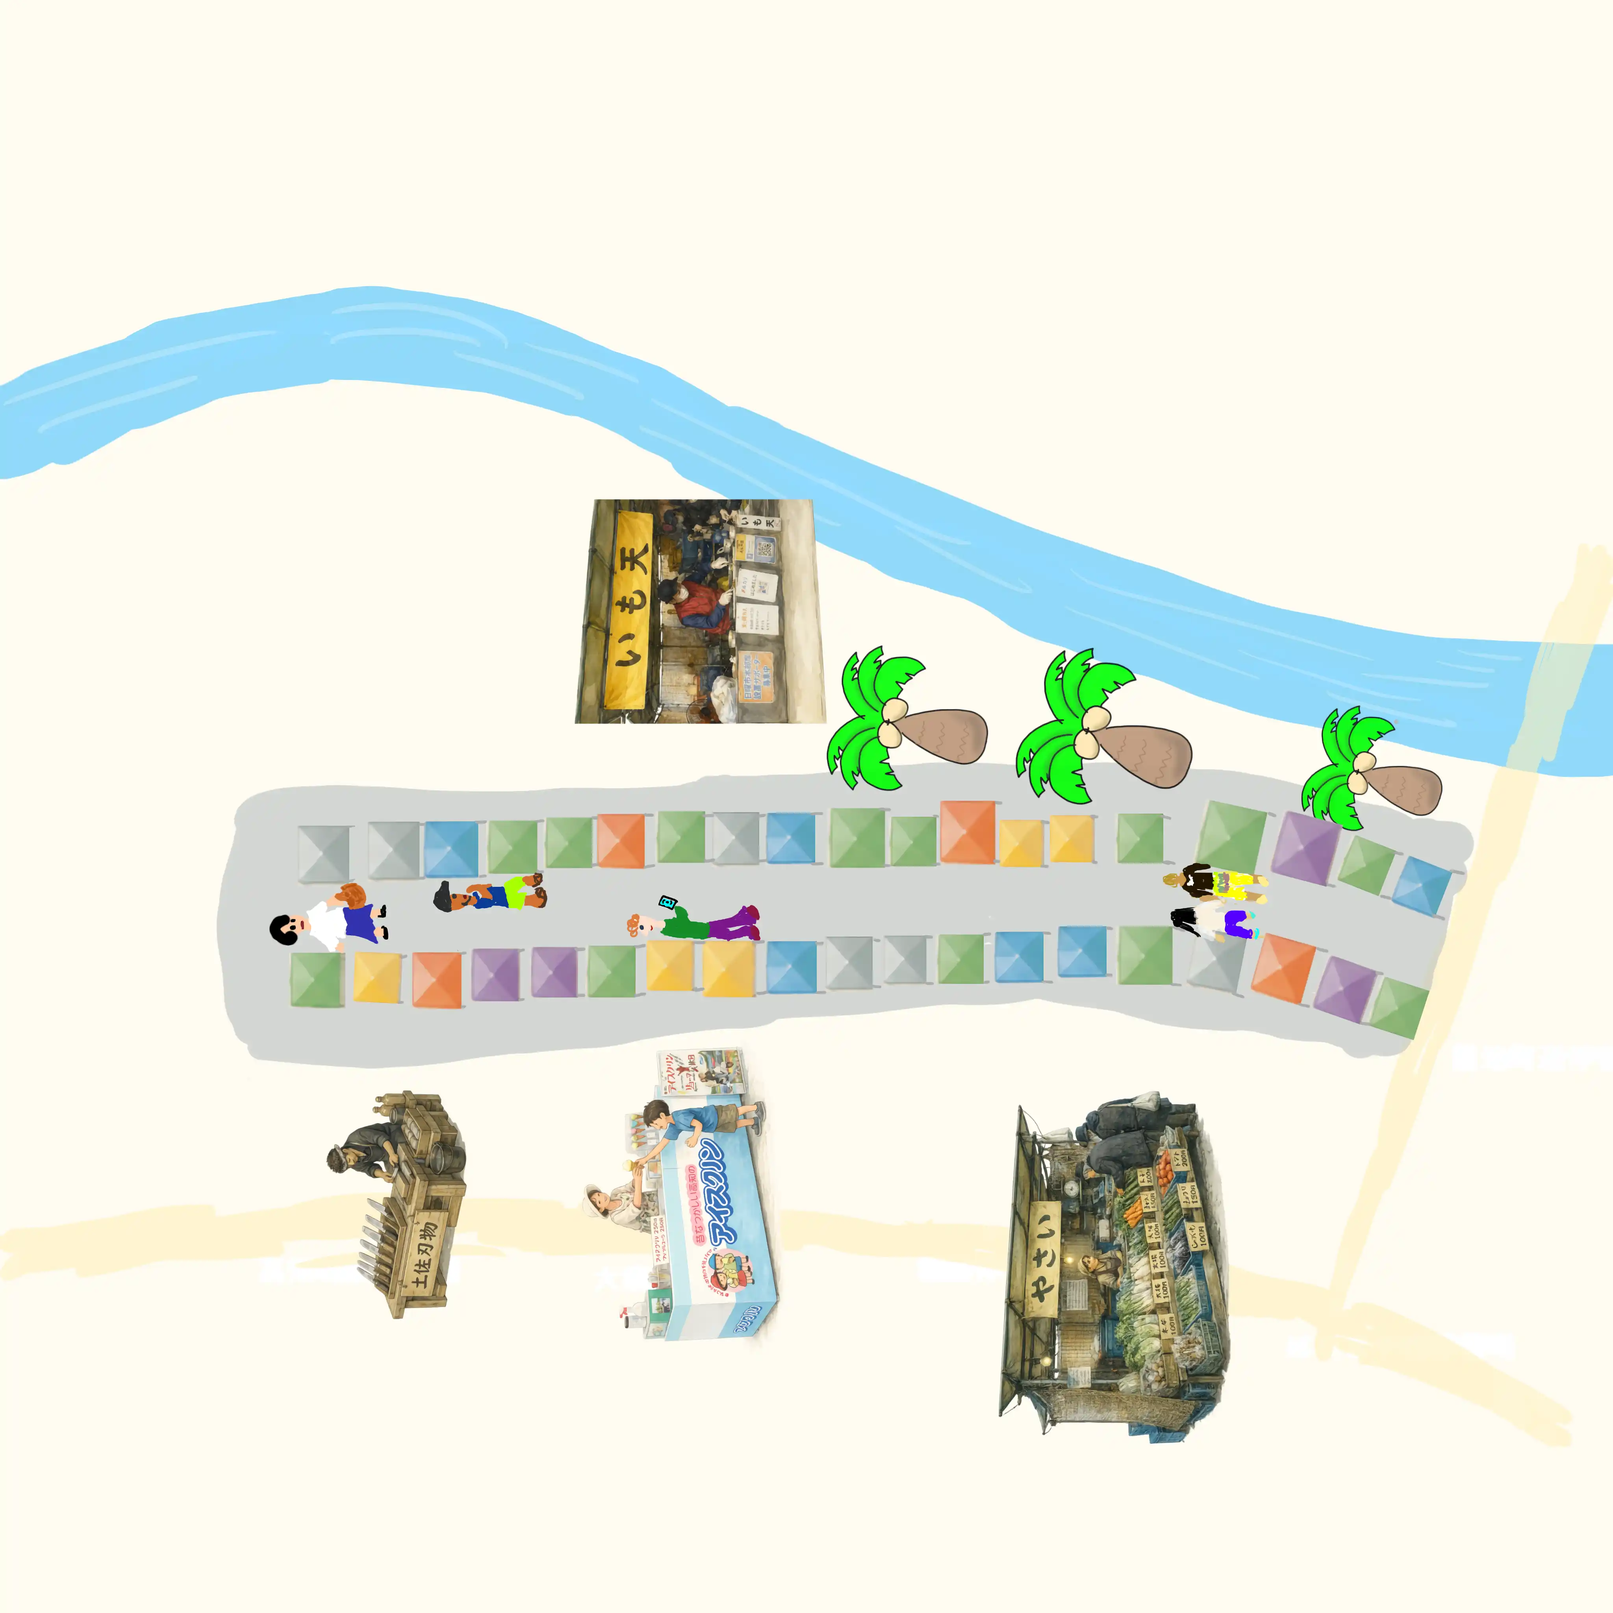
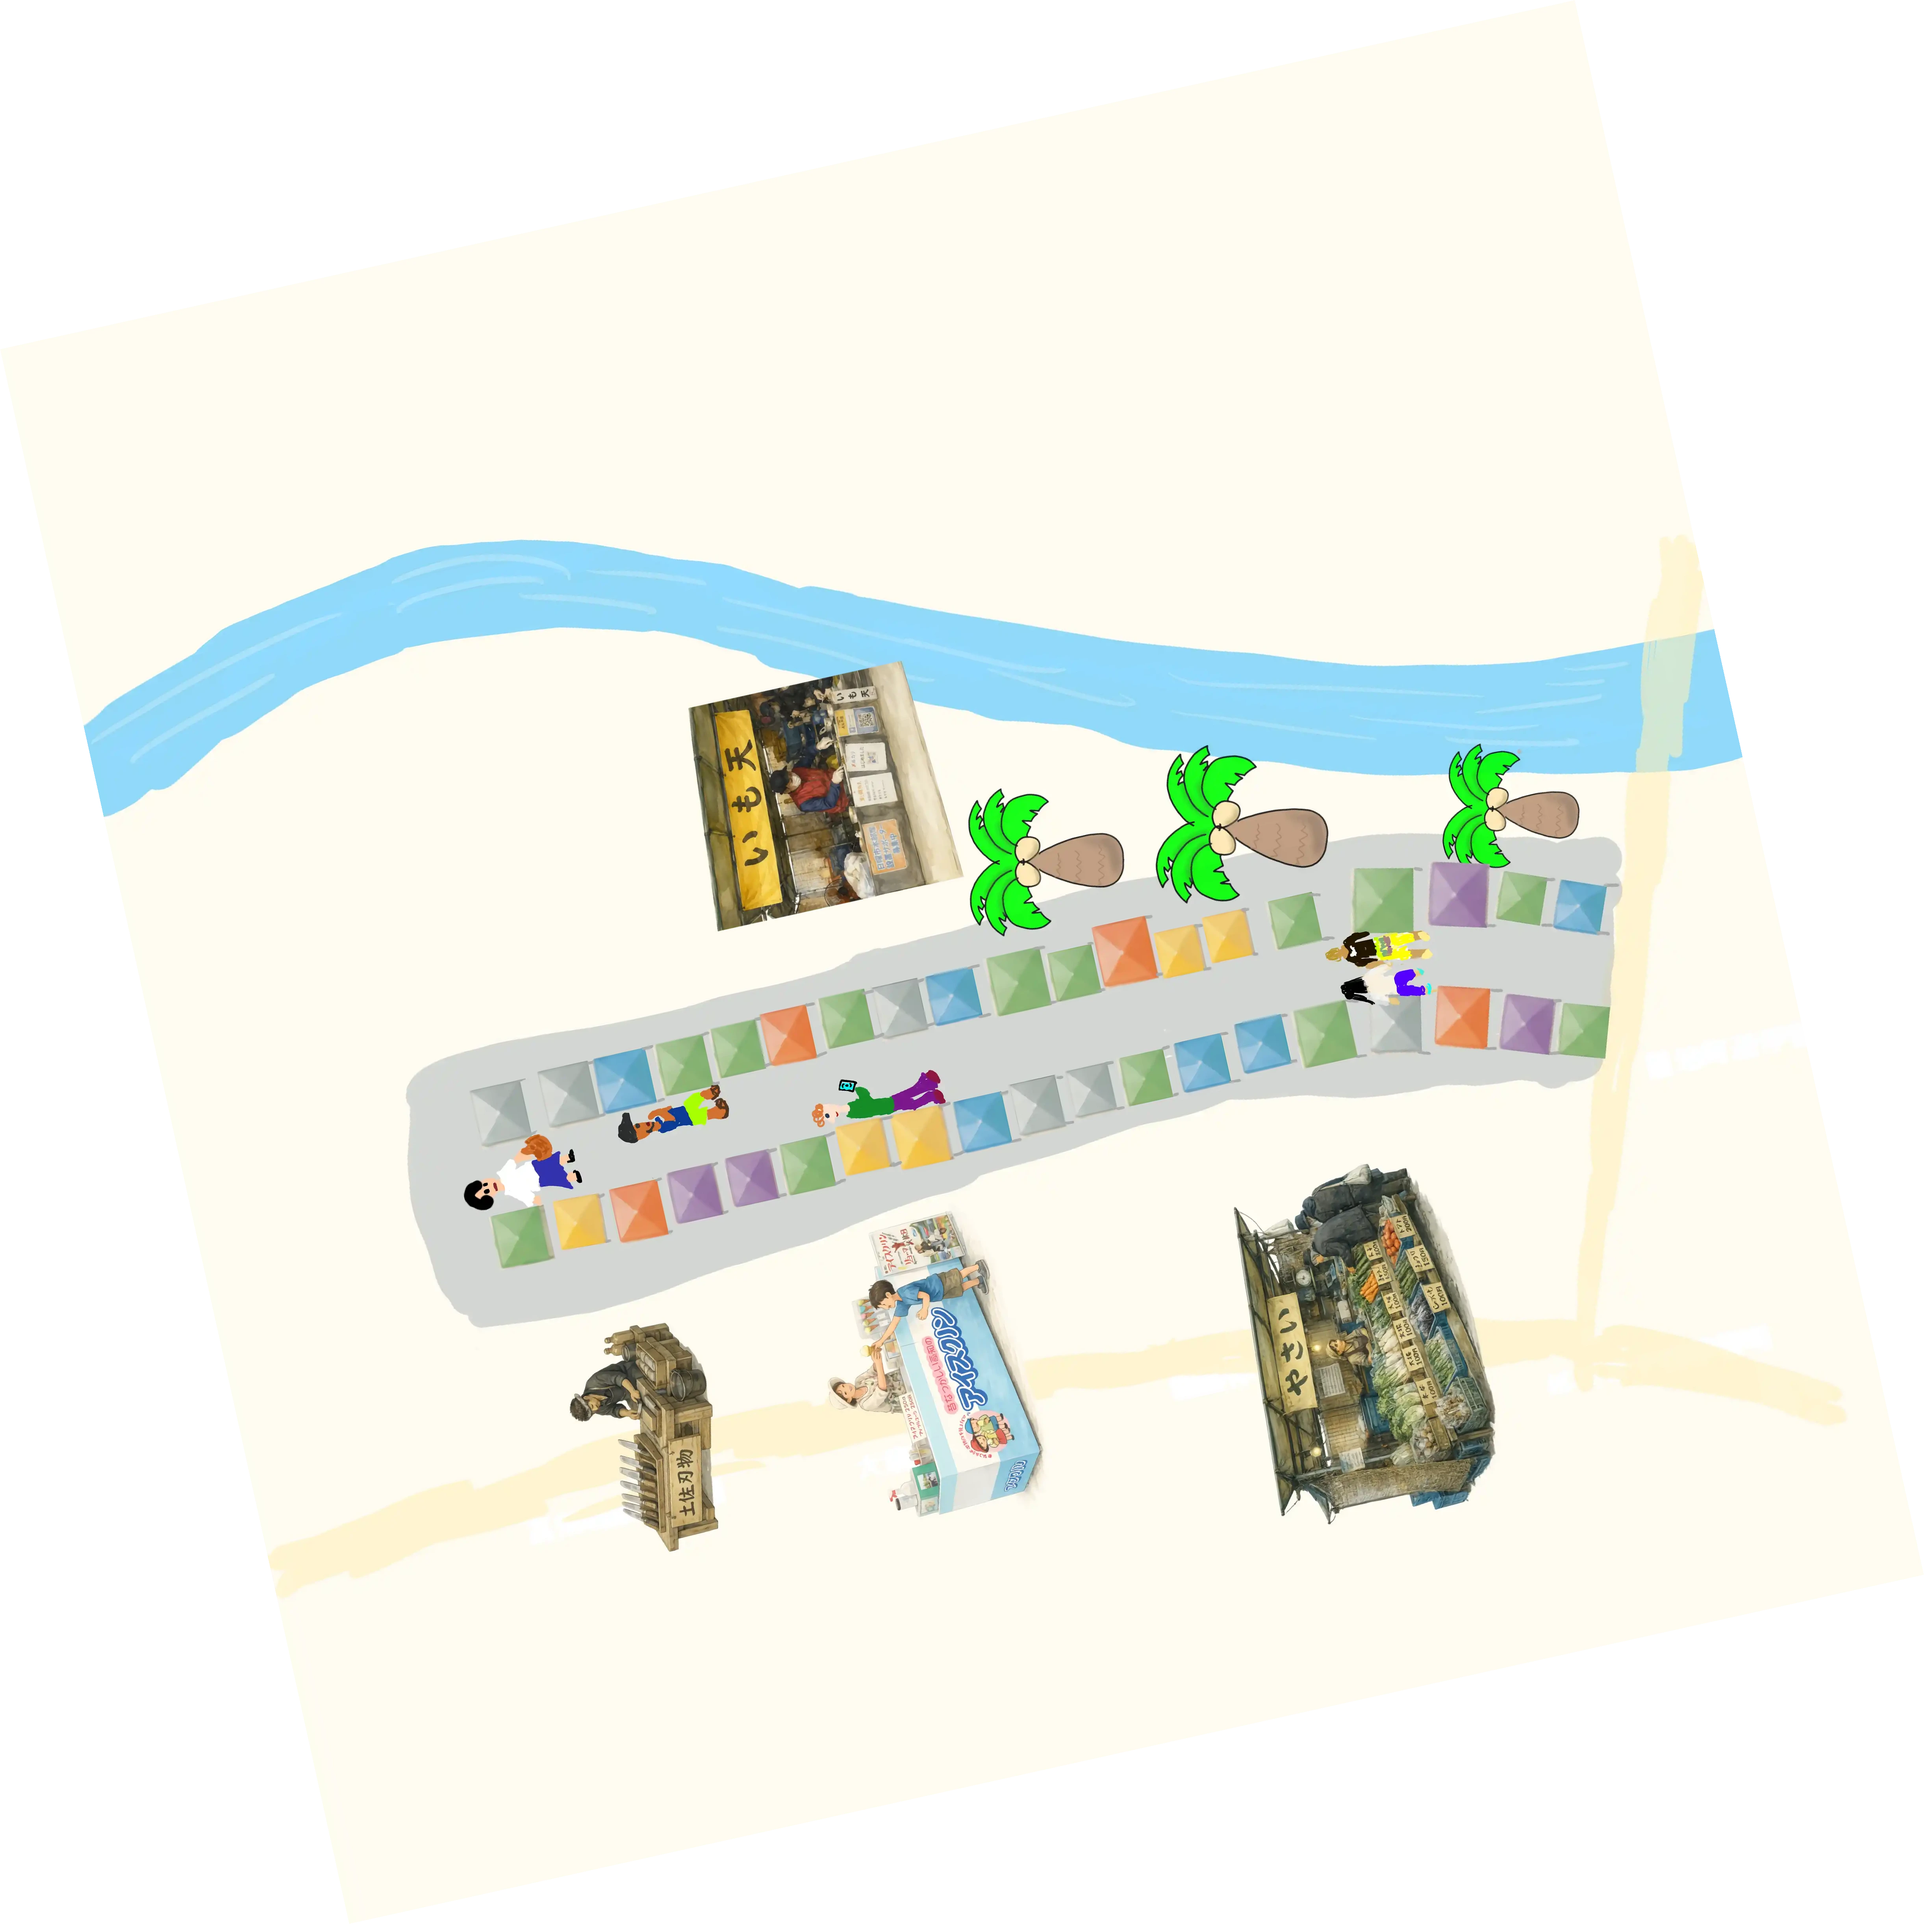
fix: 次の倍率帯イラストの位置・サイズ・角度を調整
- サイズ: 元の35%へ縮小（PR2実装時の中間値）から最終的に55%へ調整
- 位置: 最小倍率イラストと同じ中心点から zoom=16（1px≈2.4m換算）基準で
  西に100px・北に30px（北50px→さらに南20pxで差し引き北30px）移動
- 回転: 反時計回りに12.5度。Leaflet の ImageOverlay は zoom/pan のたびに
  img要素の style.transform（translate3d）を丸ごと上書きするため
  CSSのtransform: rotate()は反映されない。そのため画像ファイル自体を
  あらかじめ回転済み（余白を透過で拡張）にする方式に変更した
- bounds は元画像が正方形（4096×4096）であることに合わせ、実距離
  （メートル換算）で正方形になるよう経度方向の幅を緯度方向の
  1/cos(緯度)倍にしている。これをしないと縦横で伸縮率が変わり、
  回転した正方形が平行四辺形に歪んで見える不具合があった

diff --git a/app/(public)/map/components/BackgroundOverlay.tsx b/app/(public)/map/components/BackgroundOverlay.tsx
@@ -59,14 +59,25 @@ const MIN_ZOOM_ILLUSTRATION_CONFIG: BackgroundConfig = {
 };
 
 // 最小倍率の次の倍率帯専用の引き絵。
-// 位置・サイズは最小倍率イラストと同じ bounds を暫定流用している（実地図との
-// 目視確認がまだのため、表示を見ながら調整が必要な場合はこの bounds を変更する）。
+// 最小倍率イラストと同じ中心点から、表示サイズを55%に縮小し、
+// zoom=16（1px≈2.4m換算）基準で西に100px・北に30px移動している
+// （北50px移動後、さらに南に20px移動＝差し引き北30px）。
+// 反時計回りに12.5度回転させているが、Leaflet の ImageOverlay は zoom/pan の
+// たびに img 要素の style.transform（translate3d）を丸ごと上書きするため、
+// CSS の transform: rotate() では反映されない。そのため画像ファイル自体を
+// あらかじめ12.5度回転済み（余白を透過で拡張）にしてあり、bounds もその
+// 拡張分（拡大率 ×1.1929）だけ広げて同じ実寸で表示されるようにしている。
+// bounds は元画像が正方形（4096×4096）であることに合わせ、実距離（メートル
+// 換算）で正方形になるよう経度方向の幅を緯度方向の1/cos(緯度)倍にしている
+// （経度は同じ度数でも物理的な距離が緯度分だけ短いため）。これをしないと
+// 縦横で伸縮率が変わり、回転した正方形が平行四辺形に歪んで見える。
+// （実地図との目視確認はまだのため、表示を見ながら追加調整が必要な場合がある）。
 const NEXT_ZOOM_ILLUSTRATION_CONFIG: BackgroundConfig = {
   enabled: true,
   imagePath: '/images/maps/background/sunday-market-zoom-2.webp',
   bounds: [
-    [33.571213383579554, 133.55748451999997],
-    [33.55191066960047, 133.52301938000002],
+    [33.56854086425856, 133.54526352489341],
+    [33.55587675701344, 133.53006584798584],
   ],
   opacity: 0.7,
   zIndex: 16,
